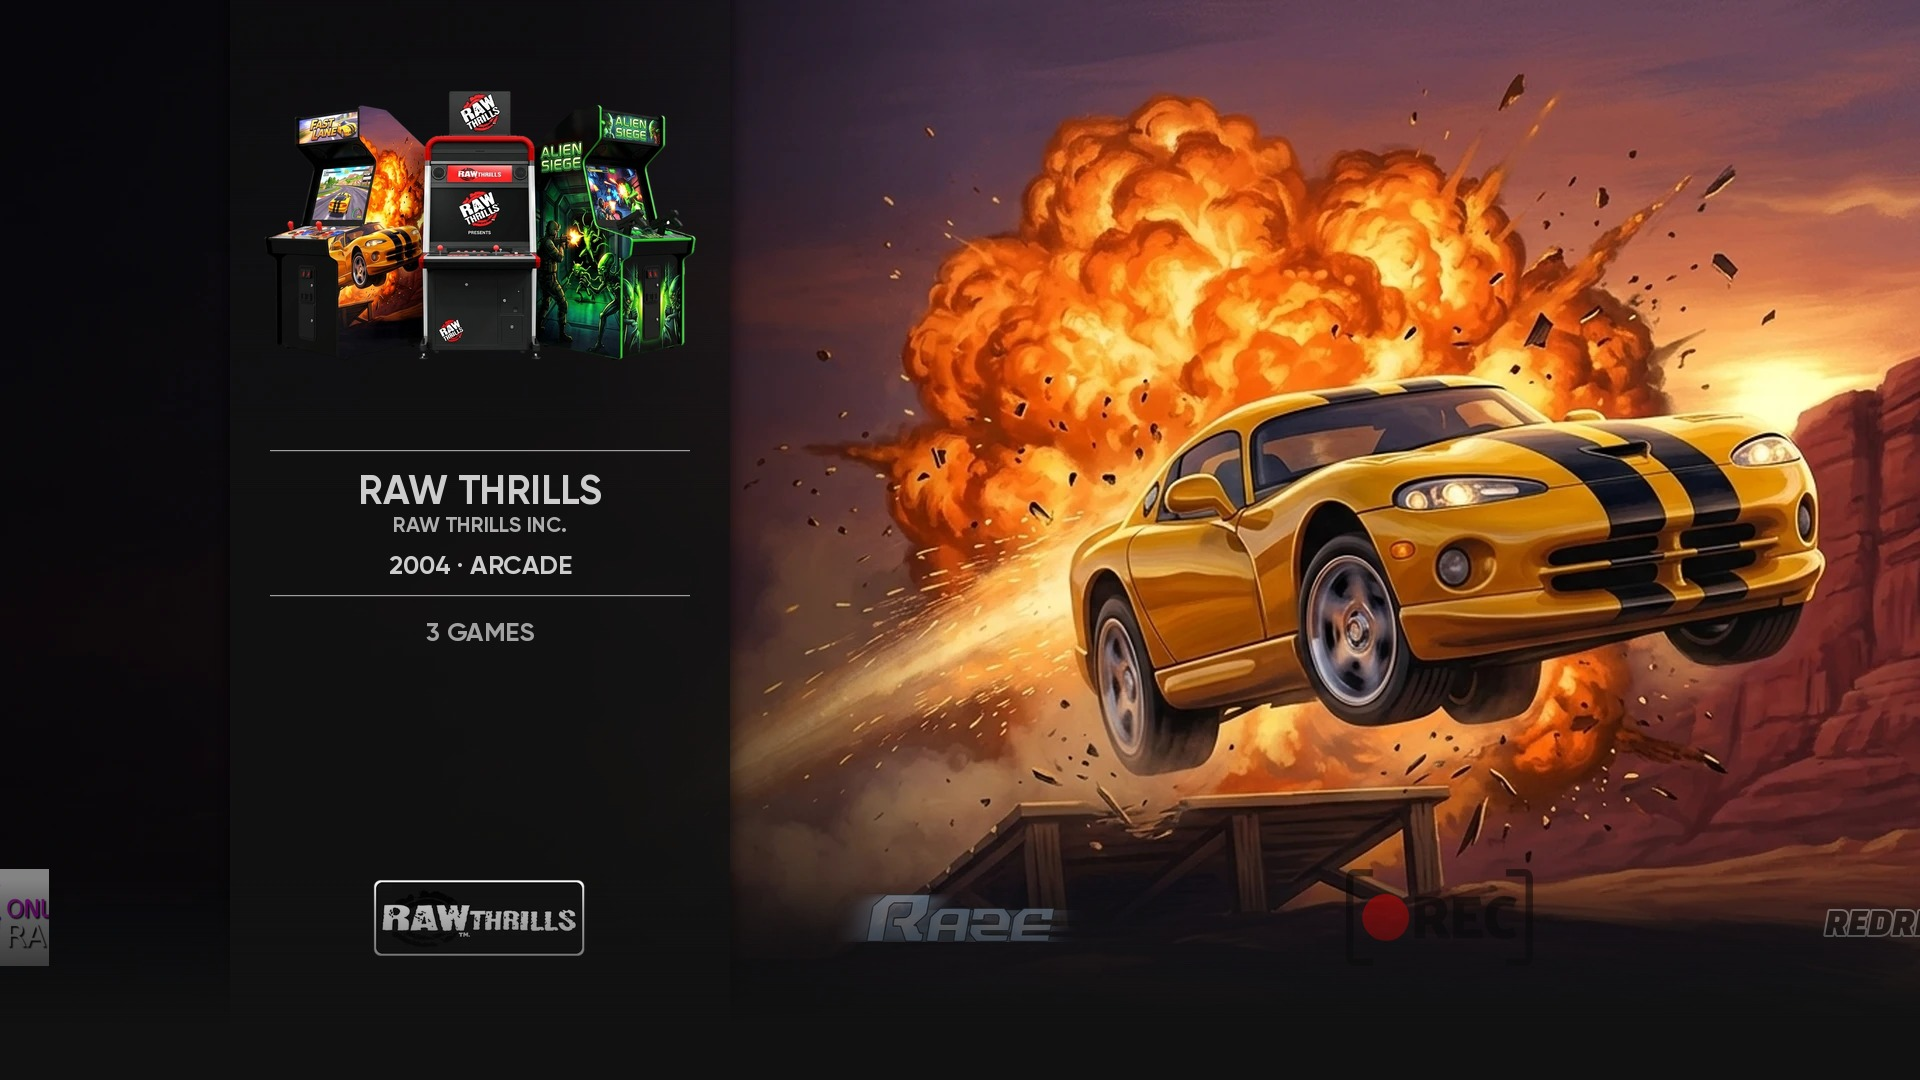
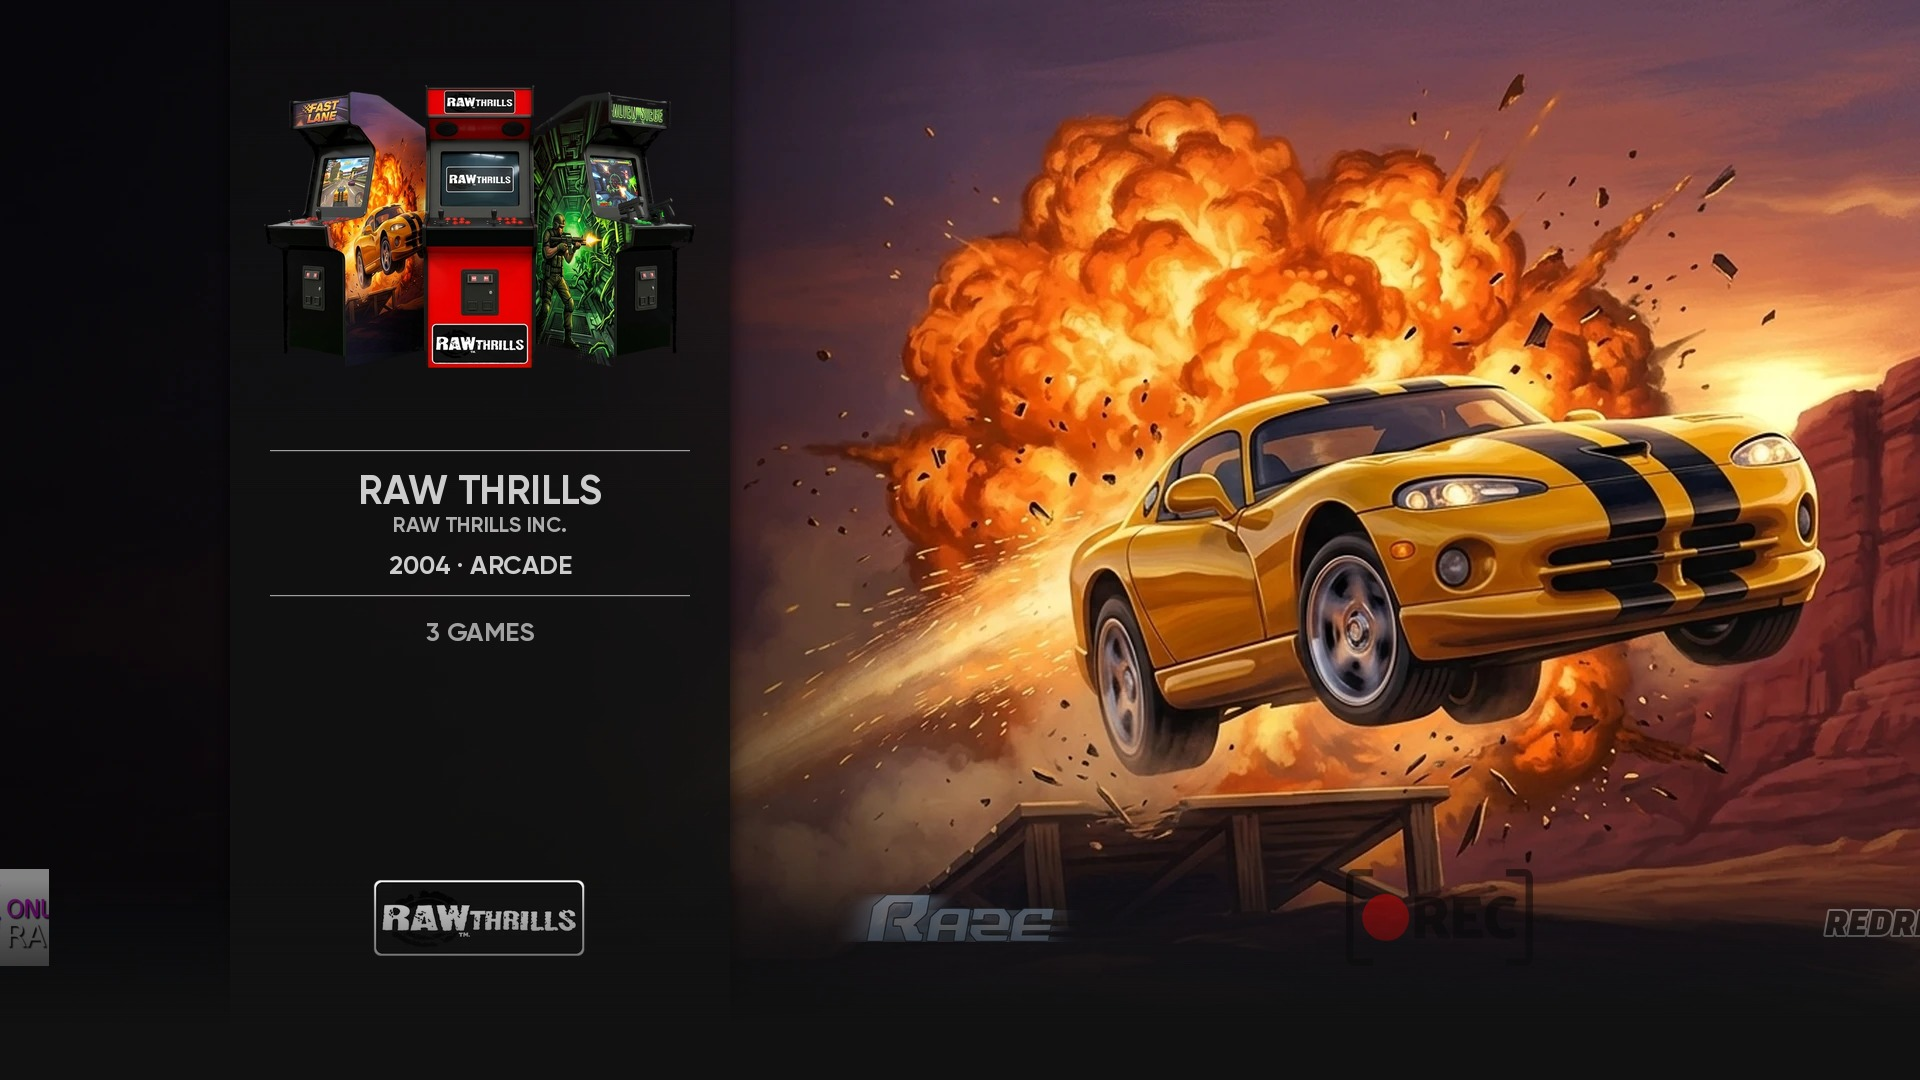
RAW Thrills: standard centre cabinet recoloured in system colours
Claude-Session: https://claude.ai/code/session_01B7tWnGzhwYXUpjDmxMAoUT

Changed region(s): [[0.125, 0.0611, 0.375, 0.3667]]

diff --git a/tools/make_todo.py b/tools/make_todo.py
@@ -12,7 +12,7 @@ arc={r[0]:r[1] for r in tsv('arcade_bg_log.tsv')}
 ctl={r[0]:r[1] for r in tsv('controllers_log.tsv')}
 themes=sorted(set(names)-orig)
 custom={"igspgm":"Oriental Legend / Knights of Valour-style: original Three Kingdoms halberd general facing an armoured war boar in a misty gorge (Gemini, original characters) - installed","zinc":"Rival Schools-style: original schoolboy in a red scarf flying-kicking against a setting sun with cherry petals (Gemini, original character) - installed; metadata renamed Sony ZN (ZiNc), 1995","gaelco":"Radikal Bikers-style: original pizza courier on an orange scooter racing a rainy neon street, pizzas flying (Gemini, original character) - installed; year set to 1996 (unsure)","unis":"Sky Kart-style: original teal-ponytail girl in a yellow helmet driving a pink go-kart off a rainbow trail among balloons and confetti (Gemini, original character) - installed","rawthrills":"The Fast and the Furious-style: original unbadged yellow-and-black-striped sports coupe jumping a ramp through a fireball (Gemini, original) - installed; year set to 2004","pippin":"Racing Days-style rally game: original cobalt rally coupe drifting a mountain hairpin at dusk (Gemini, original) - installed; year corrected 1986 to 1996","n501":"Tempest-style tube shooter: golden bat-wing starfighter firing down a neon vortex tunnel at a red crystal enemy (Gemini, original) - installed; name shortened to NUON DVD-N501, hardware type set to console","ondra":"Tenebra-style crypt puzzle: wanderer at a cracking rune door (Gemini, original character) - installed","orao":"Nevidljivi-style invisible presence in a foggy fortress courtyard (Gemini, original character) - installed","studio2":"Bowling-style strike, giant marble ball vs ten pins (Gemini; built-in Studio II game) - installed","segaalls":"House of the Dead (Gemini) - installed","segare":"Initial D (Gemini) - installed","segarw":"Daytona-style oval (Gemini) - installed","segaer":"Sega Rally-style scene (Gemini) - installed","seganu":"Hatsune Miku-style concert (Gemini) - installed","aleck64":"Starfighter scene (Gemini) - installed","abc80":"Atlantis sunken city (Gemini) - installed","actionmax":"Sonic Fury jet dogfight (Gemini) - installed (bg from a 1024px copy - swap for full-size if re-downloaded)","alice32":"Space pirate raid (Gemini) - installed","segasystem32":"Golden Axe-style barbarian (Gemini) - installed","apogeebk01":"Bad Road Soviet car (Gemini) - installed","namco11":"Tekken-style martial arts clash (Gemini) - installed","galaxy":"Diamond Mine miner (Gemini) - installed","aquarius":"Treasure of Tarmin-style dungeon (Gemini) - installed","jupace":"Starfighter vs alien hive over Jupiter (Gemini) - installed","mbee":"Bunyip Adventure bunyip billabong (Gemini) - installed","cgenie":"Astronaut vs one-eyed slime alien (Gemini) - installed","sorcerer":"Sorcerer vs dragon cavern (Gemini) - installed","pecom64":"Cosmonaut vs rusted robot guardian (Gemini) - installed","ibmpcjr":"Knight arriving at fairy-tale castle, King's Quest-style (Gemini) - installed","exl100":"Hover-bike rider vs giant mechanical scorpion (Gemini) - installed","hec2hr":"Mining robot vs crystal cavern (Gemini) - installed","mtx512":"Miner-astronaut vs spider walker in crystal cavern (Gemini) - installed","p2000t":"Retro rocket-plane vs mechanical kraken (Gemini) - installed","m5":"Ninja vs oni demon, moonlit pagoda (Gemini) - installed","vg5k":"Deep-sea diver vs luminous jellyfish, sunken palace (Gemini) - installed","tvc64":"Hungarian warrior on winged horse vs three-headed dragon (Gemini) - installed","ep128":"Jetpack explorer vs crystalline space-whale (Gemini) - installed","cassettevision":"Kikori no Yosaku-style woodcutter (Gemini) - installed","pv2000":"Astronaut kid vs chrome robot crab on the moon (Gemini, generic) - installed","microvsn":"Space ranger vs cosmic wasp, Cosmic Hunter-style (Gemini, generic) - installed","vidbrain":"American football quarterback under floodlights, VideoBrain Football-style (Gemini, generic) - installed","cbm2":"Astronaut watching a lunar lander touch down (Gemini, generic) - installed","sv8000":"Retro pilot vs saucer mothership over a night city (Gemini, generic) - installed","pegasus":"Mountain warden vs stone golem (Gemini, generic) - installed","mpu1000":"Rocket patrol vs alien saucer, early TV-game style (Gemini, generic) - installed","myvision":"Master player at floating shogi/mahjong board (Gemini, generic) - installed","elektronika":"Farmhand girl catching a golden egg in a basket, Ну, погоди!-style egg catching (Gemini, original character) - installed","bk":"Cosmonaut walking to a red-lit space station on an ice planet (Gemini, generic) - installed","vemulator":"Round robot companion leaping over a neon ocean (Gemini, generic) - installed","pocketstation":"Rain-coat adventurer riding a glowing manta ray over floating islands (Gemini, generic) - installed"}
-custom_ctl={'igspgm':'Gemini three-cabinet group (PGM-style blue centre cabinet + two muted game cabinets), green-screen cut-out - installed','zinc':'Gemini three-cabinet group (Sony ZN-style centre cabinet + two muted game cabinets), green-screen cut-out - installed','gaelco':'PixN Carbon Gaelco A.V. TRACK cabinet image used as-is, cut-out (small, 248x283) - installed','unis':'Gemini three-cabinet group (UNIS blue centre cabinet + Sky Kart and Ticket Rush game cabinets, original games), green-screen cut-out - installed','rawthrills':'Gemini three-cabinet group (RAW Thrills centre cabinet + FAST LANE and ALIEN SIEGE side cabinets, original games), cut out; logo on a black plate - installed','segaalls':'SWDC cabinet cut-out - installed','segare':'Initial D Ver.3 cabinet cut-out - installed (Ver.3 is NAOMI 2 era)'}
+custom_ctl={'igspgm':'Gemini three-cabinet group (PGM-style blue centre cabinet + two muted game cabinets), green-screen cut-out - installed','zinc':'Gemini three-cabinet group (Sony ZN-style centre cabinet + two muted game cabinets), green-screen cut-out - installed','gaelco':'PixN Carbon Gaelco A.V. TRACK cabinet image used as-is, cut-out (small, 248x283) - installed','unis':'Gemini three-cabinet group (UNIS blue centre cabinet + Sky Kart and Ticket Rush game cabinets, original games), green-screen cut-out - installed','rawthrills':'Gemini three-cabinet group (RAW Thrills red standard centre cabinet + FAST LANE and ALIEN SIEGE side cabinets, original games), cut out; logo on a black plate - installed','segaalls':'SWDC cabinet cut-out - installed','segare':'Initial D Ver.3 cabinet cut-out - installed (Ver.3 is NAOMI 2 era)'}
 JP_NOART={'dreamcast-jp','gc-jp','n64-jp','ps2-jp','psx-jp','mark3','iqueplayer'}
 import json
 BR=json.load(open('iconic-tpn/_tools/bg_review.json'))

diff --git a/NIGHTLY_LOG.md b/NIGHTLY_LOG.md
@@ -422,3 +422,4 @@ NAS SYNC PENDING (NAS not mounted): copy to /Volumes/stuff/Emulation/TPN Iconic 
 - 2026-10-10 zinc REDONE after user feedback (side cabinets too faded): new Gemini three-cabinet group with glossy BLACK side cabinets and vivid vinyl (original SCHOOL CLASH and STAR KNIGHT games). Raw: sources/zinc/zinc_cab_3cab_v2_black_gemini_raw.jpeg; faded v1 kept as sources/zinc/zinc_cab_v1_faded.png and replaced/controllers-zinc-v1faded.webp. Installed _inc/controllers/zinc.webp, mockups/zinc.jpg. Lesson: for the side cabinets always say "glossy black bodies, fully saturated, NOT faded/grey" (also aleck64). NAS sync pending adds: new zinc raw and mockup; zip iconic-tpn_20261010_b.zip.
 - 2026-10-10 sv8000: console image straightened on user request (old Carbon photo was twisted/skewed). Gemini flat top-down render of the Carbon photo (sources/sv8000/sv8000_cab_gemini_straight_raw.jpeg), then levelled and made symmetrical locally with a perspective warp (sources/sv8000/sv8000_cab_straight.png). Old one: replaced/controllers-sv8000-skewed.webp. Note: Gemini drew the round knobs with small arrows (look like d-pads); NAS sync pending: mockups/sv8000.jpg, sources/sv8000/.
 - 2026-10-10 rawthrills: system image changed from the single Carbon cabinet to the standard three-cabinet group on user request. Centre = RAW Thrills branded cabinet (from the Carbon image), sides FAST LANE and ALIEN SIEGE (original games, glossy black bodies). Gemini returned a white background instead of green, so _tools/cutout_flat.py was used. Raw: sources/rawthrills/rawthrills_cab_3cab_gemini_raw.jpeg; old single cabinet kept as replaced/controllers-rawthrills-carbon-single.webp. NAS sync pending: mockups/rawthrills.jpg, sources/rawthrills/.
+- 2026-10-10 rawthrills REDONE (user: centre cabinet must be the standard cabinet like the sides, recoloured with the system logo and colours, not the Carbon cabinet). Centre is now the standard CPS2-style upright in vivid red/black with the RAW Thrills logo; sides FAST LANE and ALIEN SIEGE (glossy black). Raw: sources/rawthrills/rawthrills_cab_3cab_v2_standardcentre_gemini_raw.jpeg (green screen, cutout_green.py). Previous v1 kept as replaced/controllers-rawthrills-v1-carbon-centre.webp. Right marquee text is slightly garbled at small size. Rule for all arcade groups: centre = same standard cabinet as the sides, recoloured in the system's colours with its logo.
